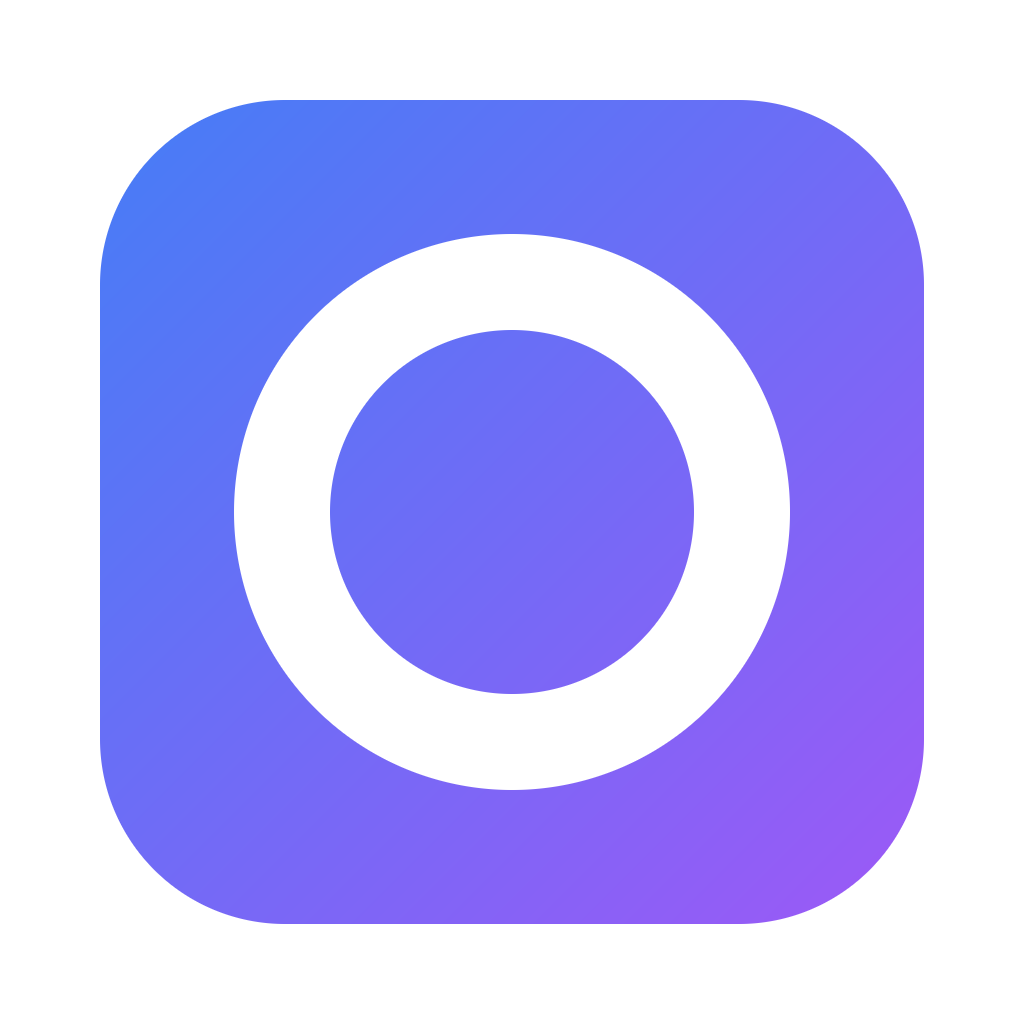
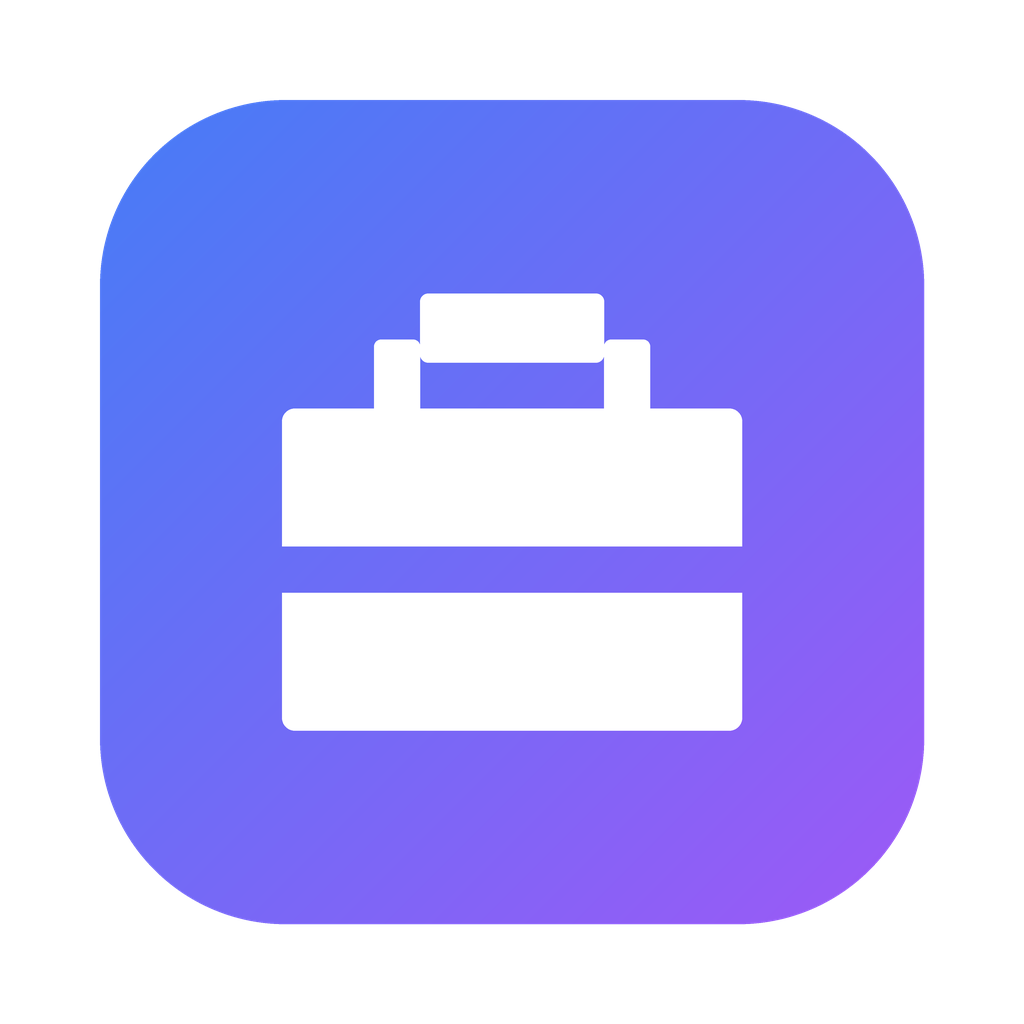
feat: 应用图标统一为工具箱造型

Changed region(s): [[0.2188, 0.2188, 0.7812, 0.7812]]

diff --git a/icons.go b/icons.go
@@ -6,7 +6,7 @@ import (
 	"github.com/egoist/mygo/ui"
 )
 
-// iconPNG 是应用图标（沿用原项目的 icon.png，用于侧栏品牌位与更新卡片）。
+// iconPNG 是应用图标（工具箱造型，与状态栏图标一致），用于侧栏品牌位与更新卡片。
 //
 //go:embed resources/icon.png
 var iconPNG []byte
